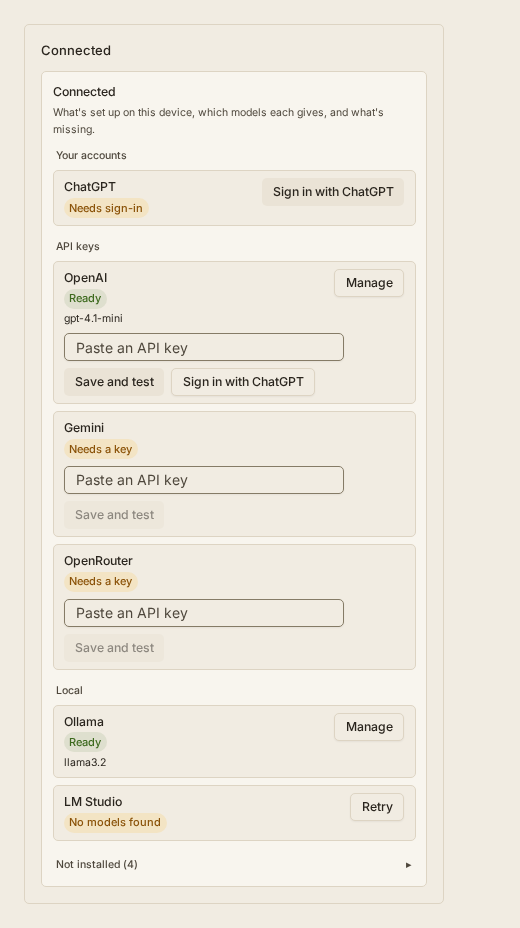
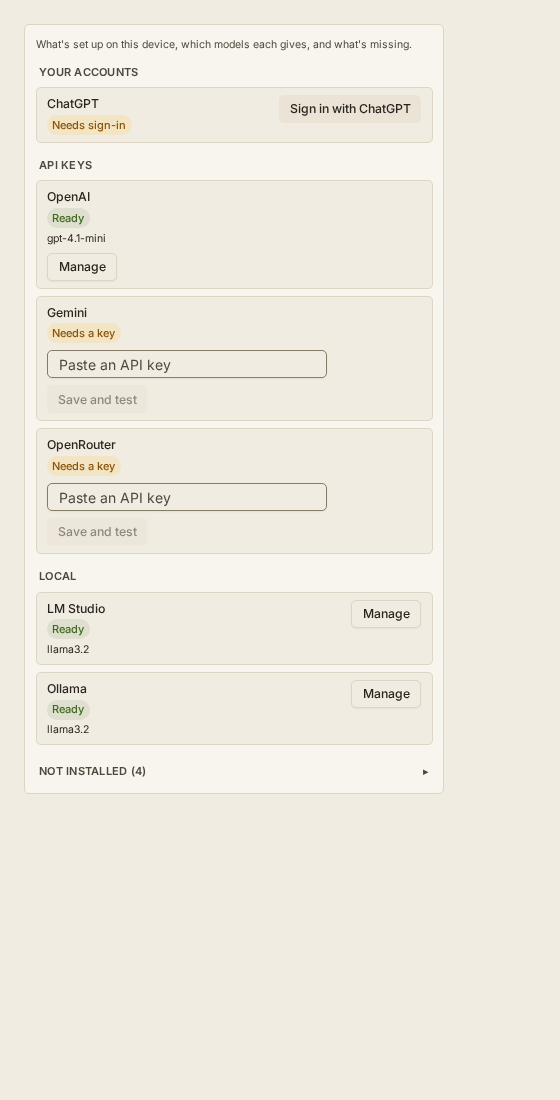
chore(docs): HOLD #286 review shots and ready-key Manage
Recapture Connected signed-in (email) and full pickers through Free/
Taproot. Ready API key rows keep a single Manage control.

diff --git a/src/components/ConnectedProvidersSummary.tsx b/src/components/ConnectedProvidersSummary.tsx
@@ -310,7 +310,7 @@ function ConnectedProvidersSummaryBody({
                 </>
               )}
             </div>
-          ) : row.action === 'none' || row.action === 'add_key' ? null : (
+          ) : row.action === 'none' || row.action === 'add_key' || (row.showKeyField && row.status === 'ready') ? null : (
             <Button
               type="button"
               variant="outline"

diff --git a/scripts/chatgpt-signin-shots.css b/scripts/chatgpt-signin-shots.css
@@ -1,3 +1,13 @@
 html, body, #root {
   min-height: 100%;
 }
+
+/* Review shots: show the full picker (accounts through Free/Taproot) without clipping. */
+[data-testid="native-chat-model-list"] {
+  max-height: none !important;
+}
+
+[data-testid="native-chat-model-menu"] {
+  max-height: none !important;
+  overflow: visible !important;
+}
